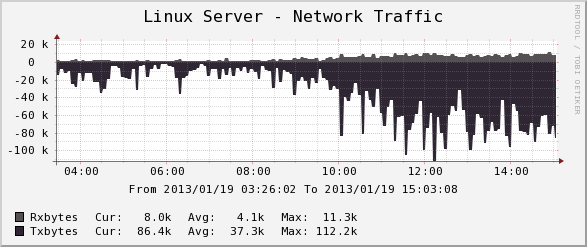
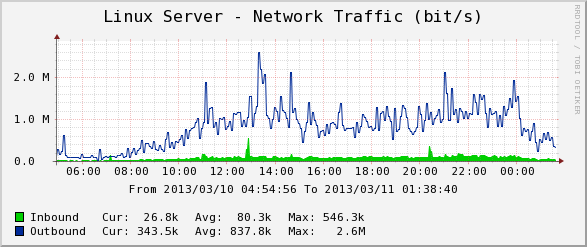
Fix for bug #1132900 Make "Network Traffic" graph blue and green and show bit/s

diff --git a/cacti/scripts/ss_get_by_ssh.php b/cacti/scripts/ss_get_by_ssh.php
@@ -449,12 +449,12 @@ function ss_get_by_ssh( $options ) {
       'MONGODB_slave_lag'                 =>  'ju',
       'DISKFREE_used'                     =>  'jw',
       'DISKFREE_available'                =>  'jx',
-      'NETDEV_rxbytes'                    =>  'jy',
+      'NETDEV_inbound'                    =>  'jy',
       'NETDEV_rxerrs'                     =>  'jz',
       'NETDEV_rxdrop'                     =>  'k0',
       'NETDEV_rxfifo'                     =>  'k1',
       'NETDEV_rxframe'                    =>  'k2',
-      'NETDEV_txbytes'                    =>  'k3',
+      'NETDEV_outbound'                   =>  'k3',
       'NETDEV_txerrs'                     =>  'k4',
       'NETDEV_txdrop'                     =>  'k5',
       'NETDEV_txfifo'                     =>  'k6',
@@ -1413,12 +1413,12 @@ function netdev_parse ( $options, $output ) {
          if ( count($words) > 0 && $words[0] === $options['device'] ) {
             if ( count($words) > 15 ) {
                 return array(
-                    'NETDEV_rxbytes'   => $words[1],
+                    'NETDEV_inbound'   => $words[1],
                     'NETDEV_rxerrs'    => $words[3],
                     'NETDEV_rxdrop'    => $words[4],
                     'NETDEV_rxfifo'    => $words[5],
                     'NETDEV_rxframe'   => $words[6],
-                    'NETDEV_txbytes'   => $words[9],
+                    'NETDEV_outbound'  => $words[9],
                     'NETDEV_txerrs'    => $words[11],
                     'NETDEV_txdrop'    => $words[12],
                     'NETDEV_txfifo'    => $words[13],

diff --git a/t/cacti/get_by_ssh.php b/t/cacti/get_by_ssh.php
@@ -506,12 +506,12 @@ is(
 is_deeply(
    netdev_parse( array('device' => 'eth0'), file_get_contents('samples/netdev-001.txt') ),
    array(
-        'NETDEV_rxbytes'   => '99704481',
+        'NETDEV_inbound'   => '99704481',
         'NETDEV_rxerrs'    => '0',
         'NETDEV_rxdrop'    => '0',
         'NETDEV_rxfifo'    => '0',
         'NETDEV_rxframe'   => '0',
-        'NETDEV_txbytes'   => '21749178',
+        'NETDEV_outbound'  => '21749178',
         'NETDEV_txerrs'    => '0',
         'NETDEV_txdrop'    => '0',
         'NETDEV_txfifo'    => '0',
